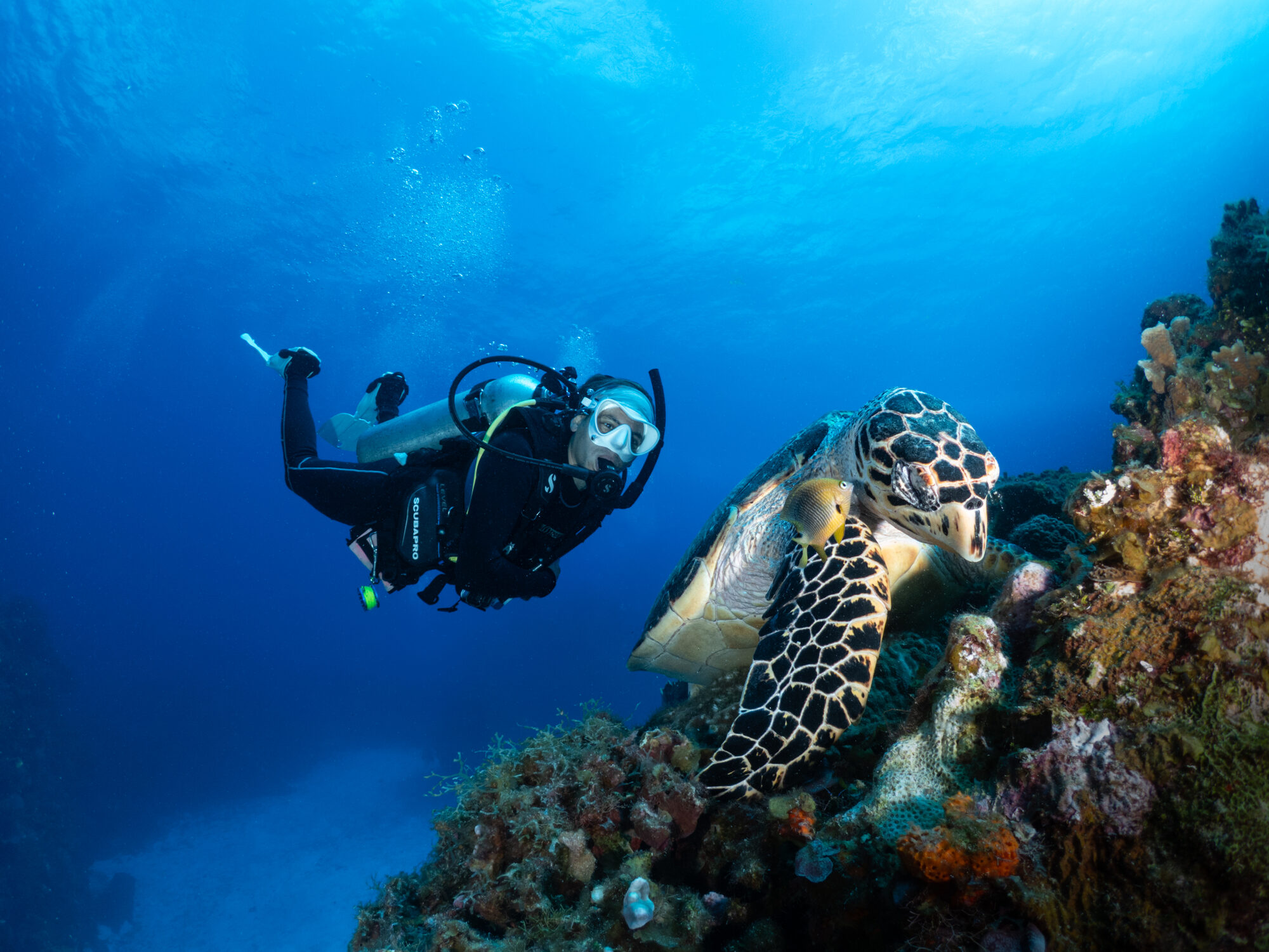
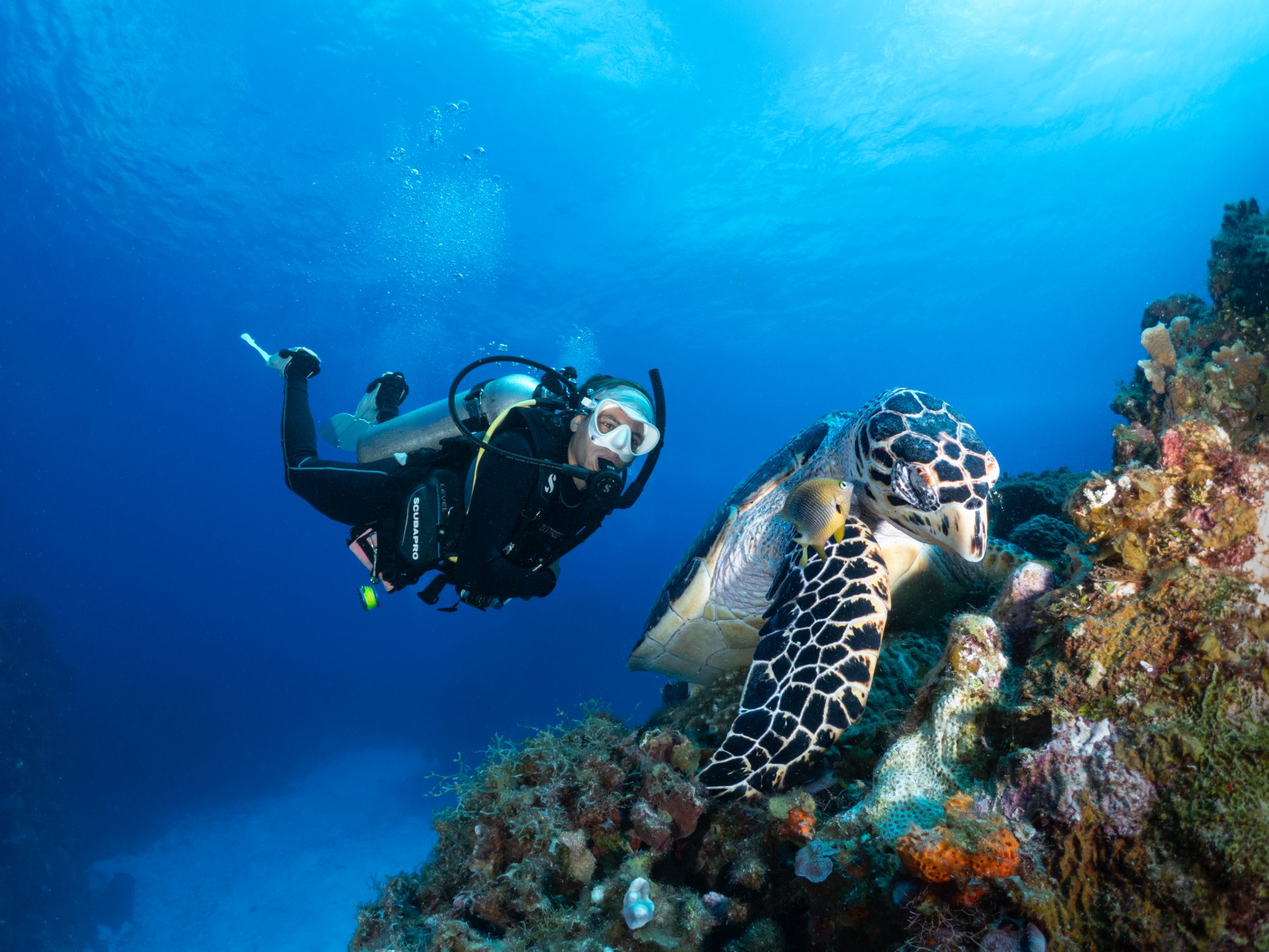
add extra photos

diff --git a/es/work-land.html b/es/work-land.html
@@ -74,9 +74,17 @@
       <div class="section-label">Trabajo seleccionado</div>
       <div class="gallery">
       <div class="photo tall"><img src="../images/land/DSC00765-web.jpg" alt="Una niña con sombrero de ala ancha y botas vaqueras de pie en un patio soleado"></div>
-      <div class="photo wide tall"><img src="../images/land/edited-00726-web.jpg" alt="Una mujer en una feria nocturna, apoyada en una fila de máquinas de garra iluminadas" loading="lazy"></div>
+      <div class="photo wide tall"><img src="../images/land/DSC00726-web.jpg" alt="Una mujer en una feria nocturna, apoyada en una fila de máquinas de garra iluminadas"></div>
+      <div class="photo tall"><img src="../images/land/2021-09-06-0025-web.jpg" alt="Un artista callejero con traje de payaso de lunares haciendo figuras de globos en un callejón adornado con farolillos rojos"></div>
+      <div class="photo wide tall"><img src="../images/land/2021-09-06-0026-web.jpg" alt="Un hombre riendo y estirando el brazo por la ventanilla de un coche, de noche" loading="lazy"></div>
+      <div class="photo tall"><img src="../images/land/DSC00576-web.jpg" alt="Un hombre sin camisa regando un patio con una manguera junto a un montón de tierra" loading="lazy"></div>
       <div class="photo"><img src="../images/land/DSC00224-web.jpg" alt="Una pareja recostada en la arena al atardecer, con las olas rompiendo detrás" loading="lazy"></div>
       <div class="photo"><img src="../images/land/DSC01359-web.jpg" alt="Una tortuga marina cruza la arena hacia el mar, dejando su rastro detrás" loading="lazy"></div>
+      <div class="photo tall"><img src="../images/land/DSC00689-web.jpg" alt="Una artista de fuego de noche, girando las llamas en arcos luminosos" loading="lazy"></div>
+      <div class="photo wide tall"><img src="../images/land/DSC01226-web.jpg" alt="Un surfista dentro de una ola que rompe bajo un cielo gris" loading="lazy"></div>
+      <div class="photo tall"><img src="../images/land/DSC01305-web.jpg" alt="Un pescador descalzo en la orilla junto al motor fuera de borda de su lancha" loading="lazy"></div>
+      <div class="photo wide tall"><img src="../images/land/DSC00454-web.jpg" alt="Un hombre descansando en una banqueta a la sombra de un paso a desnivel, con un pájaro en el suelo frente a él" loading="lazy"></div>
+      <div class="photo wide tall"><img src="../images/land/DSC00581-web.jpg" alt="Un obrero con sombrero de paja de pie entre varillas de acero en una obra" loading="lazy"></div>
       </div>
     </section>
   </main>

diff --git a/work-land.html b/work-land.html
@@ -74,9 +74,17 @@
       <div class="section-label">Selected work</div>
       <div class="gallery">
       <div class="photo tall"><img src="images/land/DSC00765-web.jpg" alt="A girl in a wide-brimmed hat and cowboy boots standing in a sunlit yard"></div>
-      <div class="photo wide tall"><img src="images/land/edited-00726-web.jpg" alt="A woman at a fairground at night, leaning on a row of brightly lit claw machines" loading="lazy"></div>
+      <div class="photo wide tall"><img src="images/land/DSC00726-web.jpg" alt="A woman at a fairground at night, leaning on a row of brightly lit claw machines"></div>
+      <div class="photo tall"><img src="images/land/2021-09-06-0025-web.jpg" alt="A street performer in a polka-dot clown suit making balloon animals in a narrow alley strung with red lanterns"></div>
+      <div class="photo wide tall"><img src="images/land/2021-09-06-0026-web.jpg" alt="A man laughing and reaching out of a car window at night" loading="lazy"></div>
+      <div class="photo tall"><img src="images/land/DSC00576-web.jpg" alt="A shirtless man watering a yard with a hose beside a mound of earth" loading="lazy"></div>
       <div class="photo"><img src="images/land/DSC00224-web.jpg" alt="A couple lying side by side on the sand at sunset, waves breaking behind them" loading="lazy"></div>
       <div class="photo"><img src="images/land/DSC01359-web.jpg" alt="A sea turtle crossing the sand toward the surf, its tracks trailing behind it" loading="lazy"></div>
+      <div class="photo tall"><img src="images/land/DSC00689-web.jpg" alt="A fire dancer at night, swinging flames into glowing loops" loading="lazy"></div>
+      <div class="photo wide tall"><img src="images/land/DSC01226-web.jpg" alt="A surfer riding inside a breaking wave under a grey sky" loading="lazy"></div>
+      <div class="photo tall"><img src="images/land/DSC01305-web.jpg" alt="A fisherman standing barefoot in the shallows beside his boat's outboard motor" loading="lazy"></div>
+      <div class="photo wide tall"><img src="images/land/DSC00454-web.jpg" alt="A man resting on a kerb in the shade of an underpass, a bird on the pavement in front of him" loading="lazy"></div>
+      <div class="photo wide tall"><img src="images/land/DSC00581-web.jpg" alt="A construction worker in a straw hat standing among steel rebar on a building site" loading="lazy"></div>
       </div>
     </section>
   </main>
